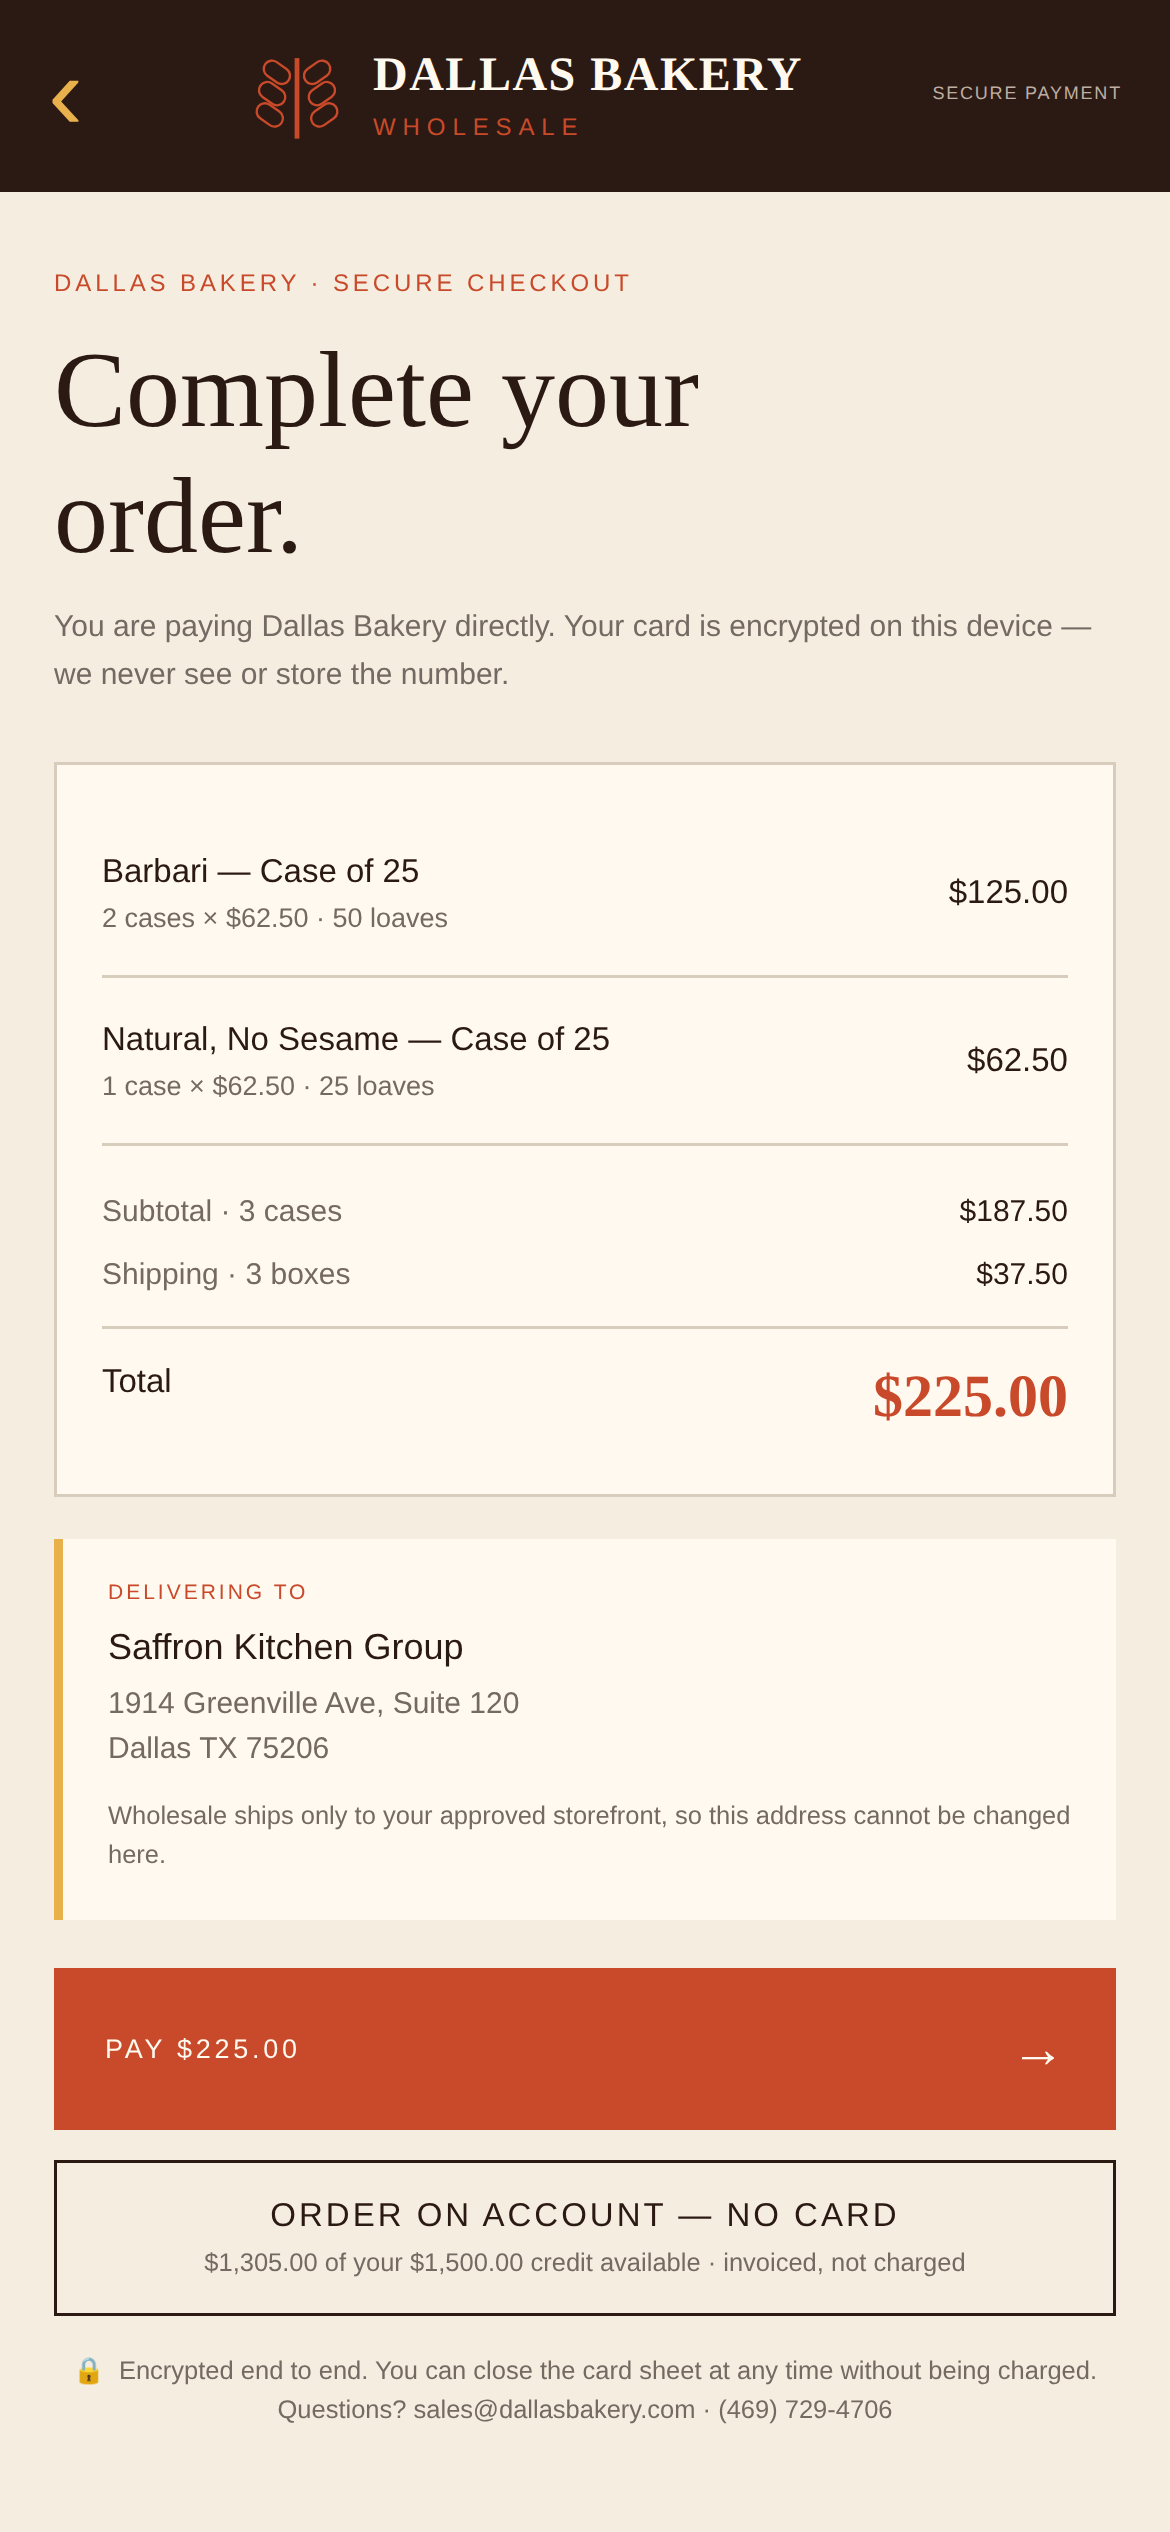
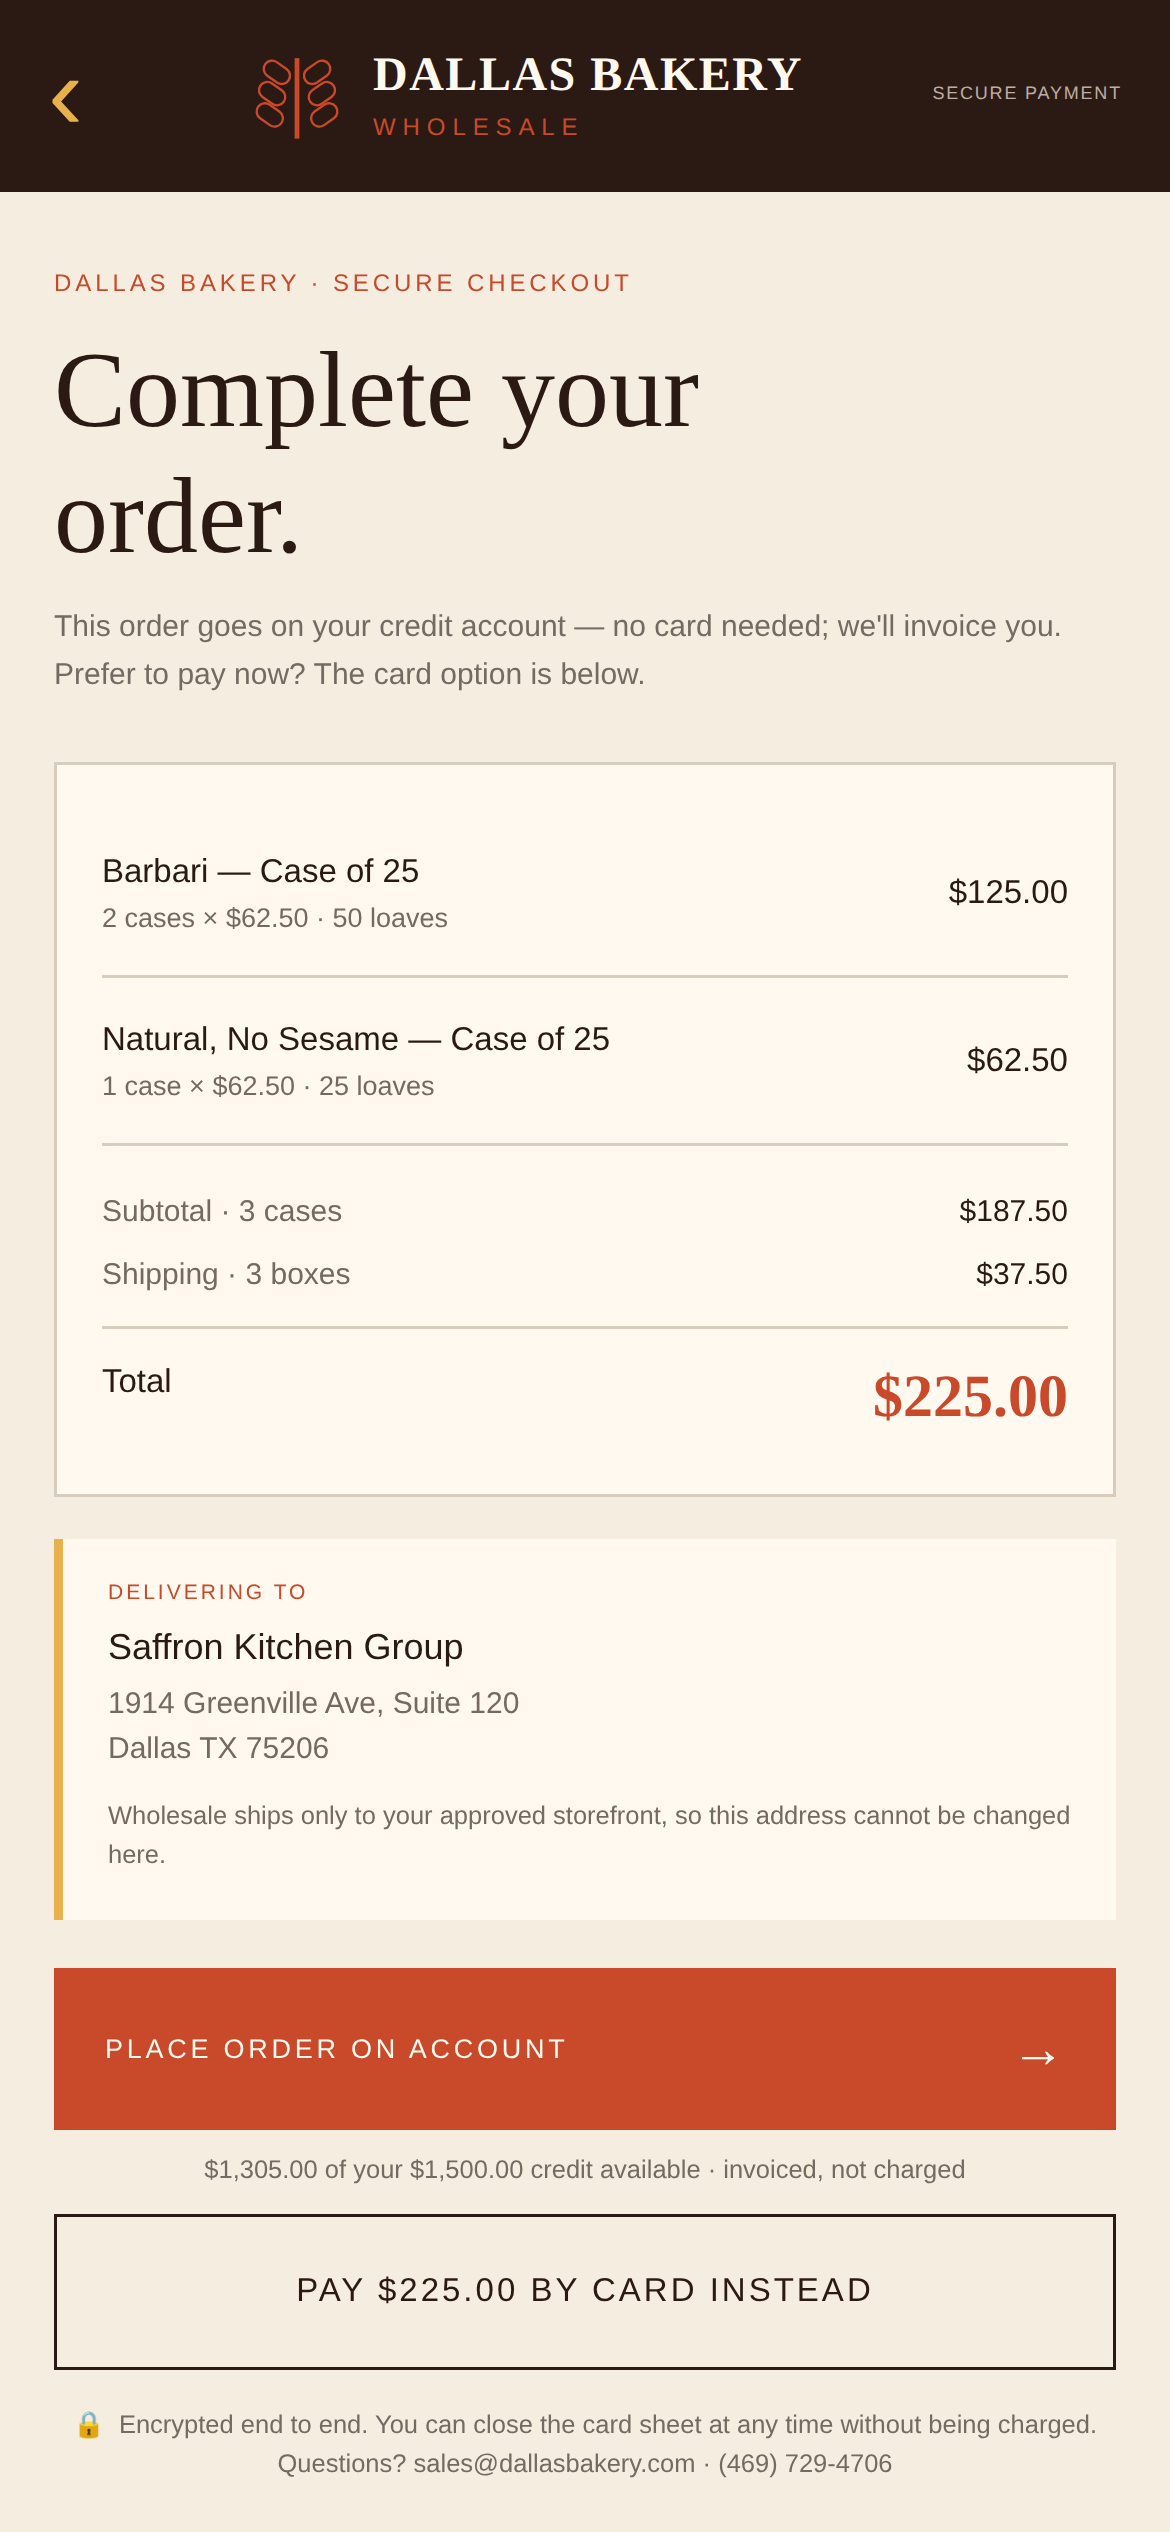
Default credit buyers to on-account checkout
A buyer with a credit limit is never asked for a card: 'Place order on
account' is the primary checkout button on the website portal and in the
app's payment screen, with 'Pay by card instead' underneath as the optional
path. A card is only required when an order is over the available credit.

Claude-Session: https://claude.ai/code/session_01JNRkmfBUUPvqEjbode4sgP

diff --git a/dallas-bakery-source/buyer-mobile-app/src/screens/PaymentScreen.tsx b/dallas-bakery-source/buyer-mobile-app/src/screens/PaymentScreen.tsx
@@ -46,6 +46,10 @@ export function PaymentScreen({ error, onBack, onPay, paying, payment, credit, o
 
   const summary: OrderSummary = payment.summary;
   const deliverTo = payment.deliverTo;
+  // A buyer with credit defaults to their account — the card sheet only
+  // opens if they choose it, or if the order is over their available credit.
+  const accountFirst = Boolean(credit?.enabled && onOrderOnAccount)
+    && summary.totalCents <= (credit?.availableCents ?? 0);
 
   return (
     <SafeAreaView style={styles.safe}>
@@ -58,7 +62,9 @@ export function PaymentScreen({ error, onBack, onPay, paying, payment, credit, o
         <Text style={styles.kicker}>DALLAS BAKERY · SECURE CHECKOUT</Text>
         <Text style={styles.title}>Complete your{`\n`}order.</Text>
         <Text style={styles.description}>
-          You are paying Dallas Bakery directly. Your card is encrypted on this device — we never see or store the number.
+          {accountFirst
+            ? "This order goes on your credit account — no card needed; we'll invoice you. Prefer to pay now? The card option is below."
+            : "You are paying Dallas Bakery directly. Your card is encrypted on this device — we never see or store the number."}
         </Text>
 
         <View style={styles.summary}>
@@ -107,33 +113,42 @@ export function PaymentScreen({ error, onBack, onPay, paying, payment, credit, o
 
         {!!error && <Text accessibilityRole="alert" style={styles.error}>{error}</Text>}
 
-        <PrimaryButton
-          label={`PAY ${money(summary.totalCents)}`}
-          loading={paying}
-          onPress={onPay}
-        />
-        {credit?.enabled && onOrderOnAccount && (
-          summary.totalCents <= credit.availableCents ? (
+        {accountFirst && credit && onOrderOnAccount ? (
+          <>
+            <PrimaryButton
+              label="PLACE ORDER ON ACCOUNT"
+              loading={placingOnAccount}
+              onPress={onOrderOnAccount}
+            />
+            <Text style={styles.accountFirstHint}>
+              {money(credit.availableCents)} of your {money(credit.limitCents)} credit available · invoiced, not charged
+            </Text>
             <Pressable
               accessibilityRole="button"
               disabled={paying || placingOnAccount}
-              onPress={onOrderOnAccount}
-              style={({ pressed }) => [styles.accountButton, (pressed || placingOnAccount) && styles.accountButtonPressed]}
+              onPress={onPay}
+              style={({ pressed }) => [styles.accountButton, (pressed || paying) && styles.accountButtonPressed]}
             >
-              {placingOnAccount ? (
+              {paying ? (
                 <ActivityIndicator color={colors.chocolate} size="small" />
               ) : (
-                <Text style={styles.accountButtonText}>ORDER ON ACCOUNT — NO CARD</Text>
+                <Text style={styles.accountButtonText}>PAY {money(summary.totalCents)} BY CARD INSTEAD</Text>
               )}
-              <Text style={styles.accountButtonHint}>
-                {money(credit.availableCents)} of your {money(credit.limitCents)} credit available · invoiced, not charged
-              </Text>
             </Pressable>
-          ) : (
-            <Text style={styles.accountShort}>
-              This order is over your available credit ({money(credit.availableCents)} left) — pay by card, or settle an open invoice first.
-            </Text>
-          )
+          </>
+        ) : (
+          <>
+            <PrimaryButton
+              label={`PAY ${money(summary.totalCents)}`}
+              loading={paying}
+              onPress={onPay}
+            />
+            {credit?.enabled && onOrderOnAccount && summary.totalCents > credit.availableCents && (
+              <Text style={styles.accountShort}>
+                This order is over your available credit ({money(credit.availableCents)} left), so it needs a card — or settle an open invoice first.
+              </Text>
+            )}
+          </>
         )}
         <Text style={styles.note}>
           🔒  Encrypted end to end. You can close the card sheet at any time without being charged.
@@ -177,7 +192,7 @@ const styles = StyleSheet.create({
   accountButton: { marginTop: 10, minHeight: 52, paddingVertical: 10, paddingHorizontal: 14, alignItems: "center", justifyContent: "center", borderWidth: 1.5, borderColor: colors.chocolate, backgroundColor: "transparent" },
   accountButtonPressed: { opacity: 0.6 },
   accountButtonText: { color: colors.chocolate, fontFamily: fonts.sansMedium, fontSize: 11, letterSpacing: 1 },
-  accountButtonHint: { marginTop: 4, color: colors.muted, fontFamily: fonts.sans, fontSize: 8.5, textAlign: "center" },
+  accountFirstHint: { marginTop: 8, color: colors.muted, fontFamily: fonts.sans, fontSize: 8.5, textAlign: "center" },
   accountShort: { marginTop: 10, padding: 12, color: colors.rust, backgroundColor: colors.paper, borderWidth: 1, borderColor: colors.line, fontFamily: fonts.sans, fontSize: 9.5, lineHeight: 14 },
   note: { marginTop: 12, color: colors.muted, fontFamily: fonts.sans, fontSize: 8.5, lineHeight: 13, textAlign: "center" },
 });

diff --git a/dallas-bakery-source/wholesale-site/app/order/order-portal.tsx b/dallas-bakery-source/wholesale-site/app/order/order-portal.tsx
@@ -609,22 +609,30 @@ export function OrderPortal() {
             One case ships as one box at {money(shipping.rateCents)}. No sales tax on bakery items.
             {rules ? ` ${rules.minimumLabel} minimum. Delivery in ${rules.leadTimeLabel}.` : ""}
           </small>
-          <button type="button" disabled={busy || accountBusy || !caseCount} onClick={checkout}>
-            {busy ? "Preparing…" : "Continue to payment"}
-          </button>
-          {credit?.enabled && (
+          {credit?.enabled && caseCount > 0 && subtotalCents + shippingCents <= credit.availableCents ? (
+            /* A buyer with credit defaults to their account — no card asked
+               for. Card stays one click away for whoever prefers it. */
             <>
+              <button type="button" disabled={busy || accountBusy} onClick={() => void orderOnAccount()}>
+                {accountBusy ? "Placing order…" : "Place order on account — no card"}
+              </button>
               <button
                 type="button"
                 className="buyer-account-button"
-                disabled={busy || accountBusy || !caseCount || subtotalCents + shippingCents > credit.availableCents}
-                onClick={() => void orderOnAccount()}
+                disabled={busy || accountBusy}
+                onClick={checkout}
               >
-                {accountBusy ? "Placing order…" : "Order on account — no card"}
+                {busy ? "Preparing…" : "Pay by card instead"}
               </button>
-              {caseCount > 0 && subtotalCents + shippingCents > credit.availableCents && (
+            </>
+          ) : (
+            <>
+              <button type="button" disabled={busy || accountBusy || !caseCount} onClick={checkout}>
+                {busy ? "Preparing…" : "Continue to payment"}
+              </button>
+              {credit?.enabled && caseCount > 0 && subtotalCents + shippingCents > credit.availableCents && (
                 <small className="buyer-credit-short">
-                  This order is over your available credit ({money(credit.availableCents)} left) — pay by card, or settle an open invoice first.
+                  This order is over your available credit ({money(credit.availableCents)} left), so it needs a card — or settle an open invoice first.
                 </small>
               )}
             </>

diff --git a/dallas-bakery-source/SETUP_GUIDE.md b/dallas-bakery-source/SETUP_GUIDE.md
@@ -136,10 +136,13 @@ Everything happens at `https://dallasbakery.net/admin`:
   and the app's welcome screen never display a dollar figure.
 - **Credit terms** — when you approve an account you'll be asked whether to
   give it a credit limit (you can also change it any time on the approved
-  card). A buyer with credit sees an extra **"Order on account — no card"**
-  button on the website and in the app: the order comes straight to your
-  shipping queue tagged **ON ACCOUNT**, nothing is charged to a card, and you
-  invoice them however you normally do. When they pay you, open the order in
+  card). A buyer with credit checks out **on account by default** — they are
+  never asked for a card. "Place order on account" is the main button on the
+  website and in the app; "Pay by card instead" sits underneath for whoever
+  prefers it, and a card is only *required* when an order is over their
+  available credit. The order comes straight to your shipping queue tagged
+  **ON ACCOUNT**, nothing is charged to a card, and you invoice them however
+  you normally do. When they pay you, open the order in
   the queue and press **Mark invoice paid** — that frees up their credit for
   the next order. Unpaid account orders always count against the limit, and an
   order that would go over it is politely refused at checkout. Cancelling an

diff --git a/dallas-bakery-source/CHANGES-v20.md b/dallas-bakery-source/CHANGES-v20.md
@@ -15,10 +15,12 @@ exclusive prices set and cleared from /admin — plus 81 automated tests
   granted, raised, lowered, or revoked at any time.
   Database: `credit_limit_cents` on `wholesale_applications`
   (migration `0012`).
-- **Ordering without a card.** Buyers with credit see
-  **"Order on account — no card"** next to the card button on the website
-  portal and in the app's payment screen, along with how much credit is
-  left. The endpoint (`POST /api/buyer/order-on-account`) prices the same
+- **Ordering without a card.** Buyers with credit check out on account by
+  default: **"Place order on account"** is the primary button on the website
+  portal and in the app's payment screen (with how much credit is left), and
+  they are never asked for a card — **"Pay by card instead"** sits underneath
+  as the optional path, becoming required only when an order is over the
+  available credit. The endpoint (`POST /api/buyer/order-on-account`) prices the same
   cart server-side (exclusive prices included), checks it against available
   credit, and records the order immediately with `payment_terms='account'`
   — no Stripe object exists for it. The response carries the recorded
